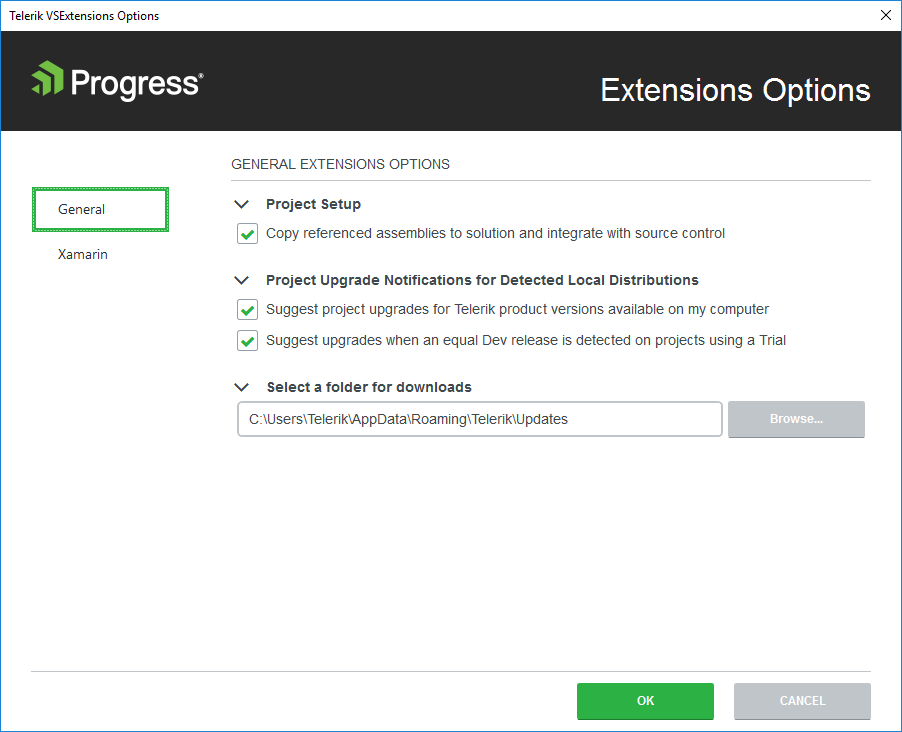
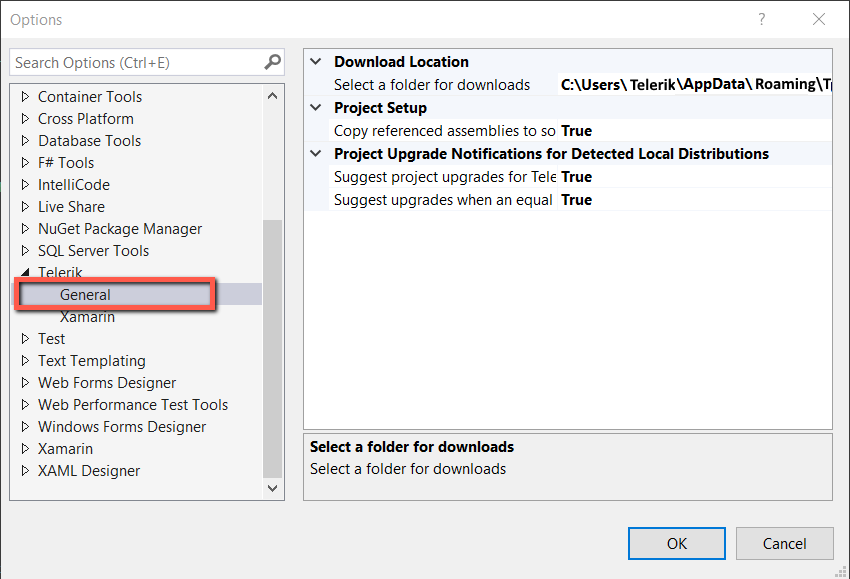
add kb and update vs extensions options images

Changed region(s): [[0.0, 0.0, 1.0, 0.8705], [0.0, 0.9016, 1.0, 1.0], [0.3671, 0.7461, 0.6118, 0.8394]]

diff --git a/knowledge-base/datagrid-grouping-inner-items-count-in-outer-group.md b/knowledge-base/datagrid-grouping-inner-items-count-in-outer-group.md
@@ -1,0 +1,181 @@
+---
+title: How to show multi grouped grid's inner child items count in main parent group header on rad data grid
+description: show multi grouped grid's inner child items count in main parent group header, nested grouping scenario
+type: troubleshooting
+page_title: 
+slug: datagrid-grouping-inner-items-count-in-outer-group
+position: 
+tags: datagrid, grouping, xamarin, xamarin.forms, nested grouping
+ticketid: 1498942
+res_type: kb
+---
+
+## Environment
+<table>
+	<tbody>
+		<tr>
+			<td>Product Version</td>
+			<td>2020.3.1207.1</td>
+		</tr>
+		<tr>
+			<td>Product</td>
+			<td>DataGrid for Xamarin.Forms</td>
+		</tr>
+	</tbody>
+</table>
+
+
+## Description
+
+The following how-to article will show you how to visualize the children's items count of the inner group inside the outer group. For this purpose, we will use the DataGrid GroupHeaderTemplate. 
+
+## Solution
+
+We will need to implement a converter to get the inner group children's items count. Create a class for example MyConverter:
+
+```C#
+public class MyConverter : IValueConverter
+{
+    public object Convert(object value, Type targetType, object parameter, CultureInfo culture)
+    {
+
+        var groupHeaderContext = value as GroupHeaderContext;
+        if (groupHeaderContext != null)
+        {
+            var group = groupHeaderContext.Group;
+            if (group != null)
+            {
+                var totalItemsCount = this.GetTotalChildrenCount(group);
+                return "Total child items count: " + totalItemsCount;
+            }
+        }
+
+        return string.Empty;
+    }
+
+    public object ConvertBack(object value, Type targetType, object parameter, CultureInfo culture)
+    {
+        throw new NotImplementedException();
+    }
+    private int GetTotalChildrenCount(IDataGroup group)
+    {
+        int count = 0;
+        foreach (var item in group.ChildItems)
+        {
+            var childGroup = item as IDataGroup;
+            if (childGroup != null)
+            {
+                count += this.GetTotalChildrenCount(childGroup);
+            }
+            else
+            {
+                count++;
+            }
+        }
+
+        return count;
+    }
+}
+```
+
+you will need the following namespace for the GroupHHeaderContext:
+
+```C#
+using Telerik.XamarinForms.Common.Data;
+using Telerik.XamarinForms.DataGrid;
+```
+
+Here is the used business model and ViewModel:
+
+```C#
+public class Country
+{
+    public string Name { get; set; }
+    public string Region { get; set; }
+    public string SalesName { get; set; }
+}
+public class ViewModel
+{
+    public ViewModel()
+    {
+        this.Items = new ObservableCollection<Country>
+        {
+            new Country{Name ="Australia", Region="East", SalesName="Camra" },
+            new Country{Name ="Australia", Region="East", SalesName="Camba" },
+            new Country{Name ="Australia", Region="West", SalesName="bera" },
+            new Country{Name ="Australia", Region="South", SalesName="C" },
+            new Country{Name ="Australia", Region="Center", SalesName="C" },
+            new Country{Name ="UK", Region="East", SalesName = "Cate" },
+            new Country{Name ="UK", Region="West", SalesName = "Jack" },
+            new Country{Name ="UK", Region="Center", SalesName="James" },
+            new Country{Name ="USA", Region="East", SalesName="John" },
+            new Country{Name ="USA", Region="East", SalesName="Doe" },
+            new Country{Name ="USA", Region="East", SalesName="Katelin" },
+            new Country{Name ="USA", Region="West", SalesName="Joan" },
+            new Country{Name ="USA", Region="South", SalesName="Amanda" },
+            new Country{Name ="USA", Region="North", SalesName="Daniel" },
+            new Country{Name ="USA", Region="South", SalesName="Amanda" },
+        };
+    }
+
+    public ObservableCollection<Country> Items { get; set; }
+}
+```
+
+And finaly this is the DataGrid definition and how the GroupHeaderTemplate is defined:
+
+```XAML
+<telerikDataGrid:RadDataGrid x:Name="dataGrid"
+                                ItemsSource="{Binding Items}"
+                                AutoGenerateColumns="false"
+                                DataOperationIndicationMode="Universal"
+                                GridLinesColor="#DDE0E3"
+                                GridLinesVisibility="Both">
+    <telerikDataGrid:RadDataGrid.GroupHeaderTemplate>
+        <DataTemplate>
+            <StackLayout Orientation="Horizontal" 
+                        Margin="5,0,0,0" 
+                        VerticalOptions="Center" >
+                <Label Text="{Binding Group.Key}" 
+                    FontAttributes="Bold" 
+                    TextColor="DarkCyan" 
+                    FontSize="Small" />
+                <Label Text="{Binding Group.Items.Count}" 
+                    FontAttributes="Bold" 
+                    TextColor="DarkCyan" 
+                    FontSize="Small" />
+                <Label Text="{Binding ., Converter={StaticResource myConverter}}" 
+                    FontAttributes="Bold" 
+                    TextColor="Red" 
+                    FontSize="16" />
+            </StackLayout>
+        </DataTemplate>
+    </telerikDataGrid:RadDataGrid.GroupHeaderTemplate>
+    <telerikDataGrid:RadDataGrid.GroupDescriptors>
+        <common:PropertyGroupDescriptor PropertyName="Name"/>
+        <common:PropertyGroupDescriptor PropertyName="Region"/>
+    </telerikDataGrid:RadDataGrid.GroupDescriptors>
+
+    <telerikDataGrid:RadDataGrid.Columns>
+        <telerikDataGrid:DataGridTextColumn PropertyName="SalesName" HeaderText="Sales">
+        </telerikDataGrid:DataGridTextColumn>
+    </telerikDataGrid:RadDataGrid.Columns>
+</telerikDataGrid:RadDataGrid>
+```
+
+Register the converter inside the Page's Resources:
+
+```XAML
+<ContentPage.Resources>
+    <ResourceDictionary>
+        <local:MyConverter x:Key="myConverter"/>
+    </ResourceDictionary>
+</ContentPage.Resources>
+```
+
+also you will need the following namespaces:
+
+```XAML
+xmlns:telerikDataGrid="clr-namespace:Telerik.XamarinForms.DataGrid;assembly=Telerik.XamarinForms.DataGrid" 
+xmlns:common="clr-namespace:Telerik.XamarinForms.Common.Data;assembly=Telerik.XamarinForms.Common"
+```

diff --git a/installation-and-deployment/windows/visualstudio-extensions.md b/installation-and-deployment/windows/visualstudio-extensions.md
@@ -41,7 +41,15 @@ Either way you choose, after installing Telerik Xamarin VSExtensions, a Telerik 
 
 ## VSExtensions Options
 
-The **Visual Studio Extensions** options dialog provides settings, so you can configure the Telerik Visual Studio Extensions to best suit your needs. It can be accessed through the Telerik menu in Visual Studio (under Extensions menu item in VS2019) -> VSExtensions Options…
+The **Visual Studio Extensions** options dialog provides settings, so you can configure the Telerik Visual Studio Extensions to best suit your needs. 
+
+It can be accessed through the Telerik menu in Visual Studio (under Extensions menu item in VS2019) -> VSExtensions Options…
+
+![Telerik Menu VS](images/telerik_menu.png)
+
+or from the Visual Studio Oprions Dialod -> Tools -> Options -> Telerik
+
+![Telerik Menu in Visual Studio Options](images/telerik_menu_tools_options.png)
 
 The **Options** dialog contains two sets of options that affect the Telerik UI for Xamarin.
 
